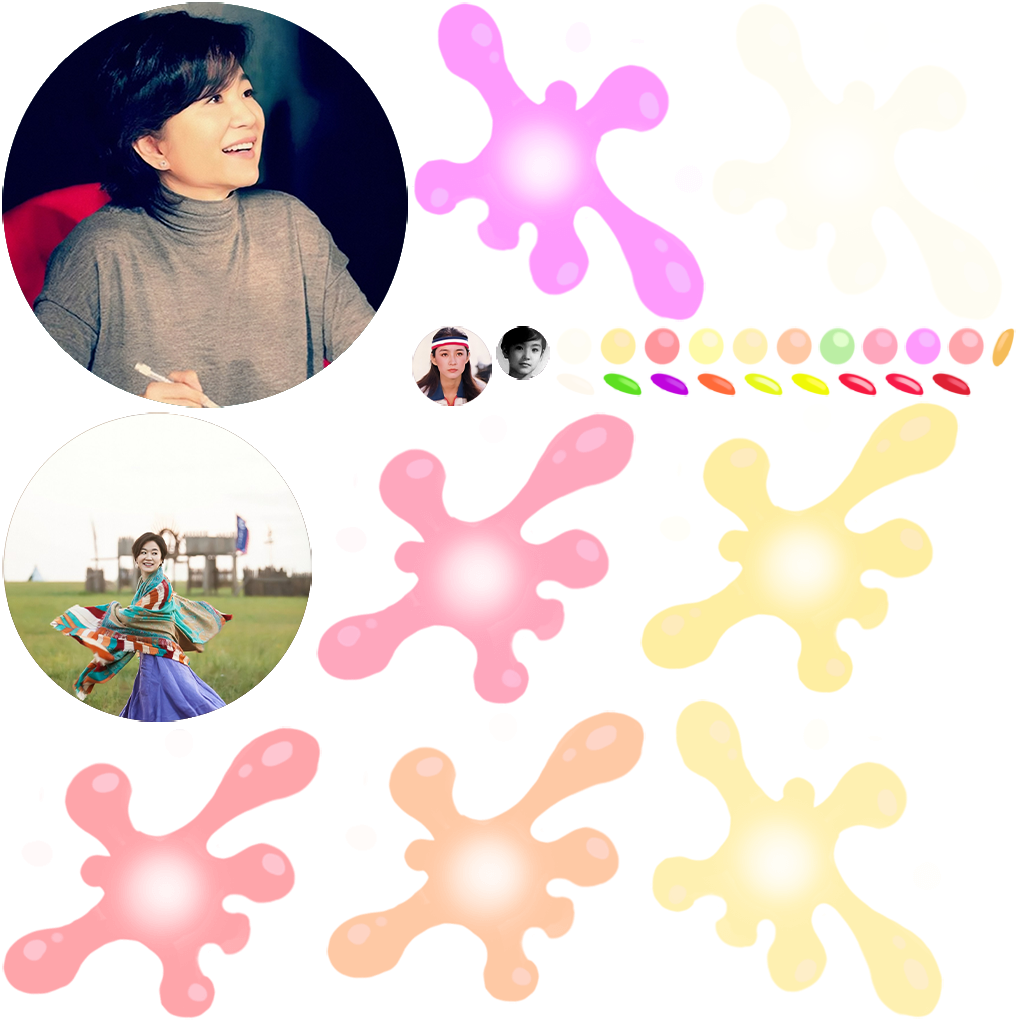
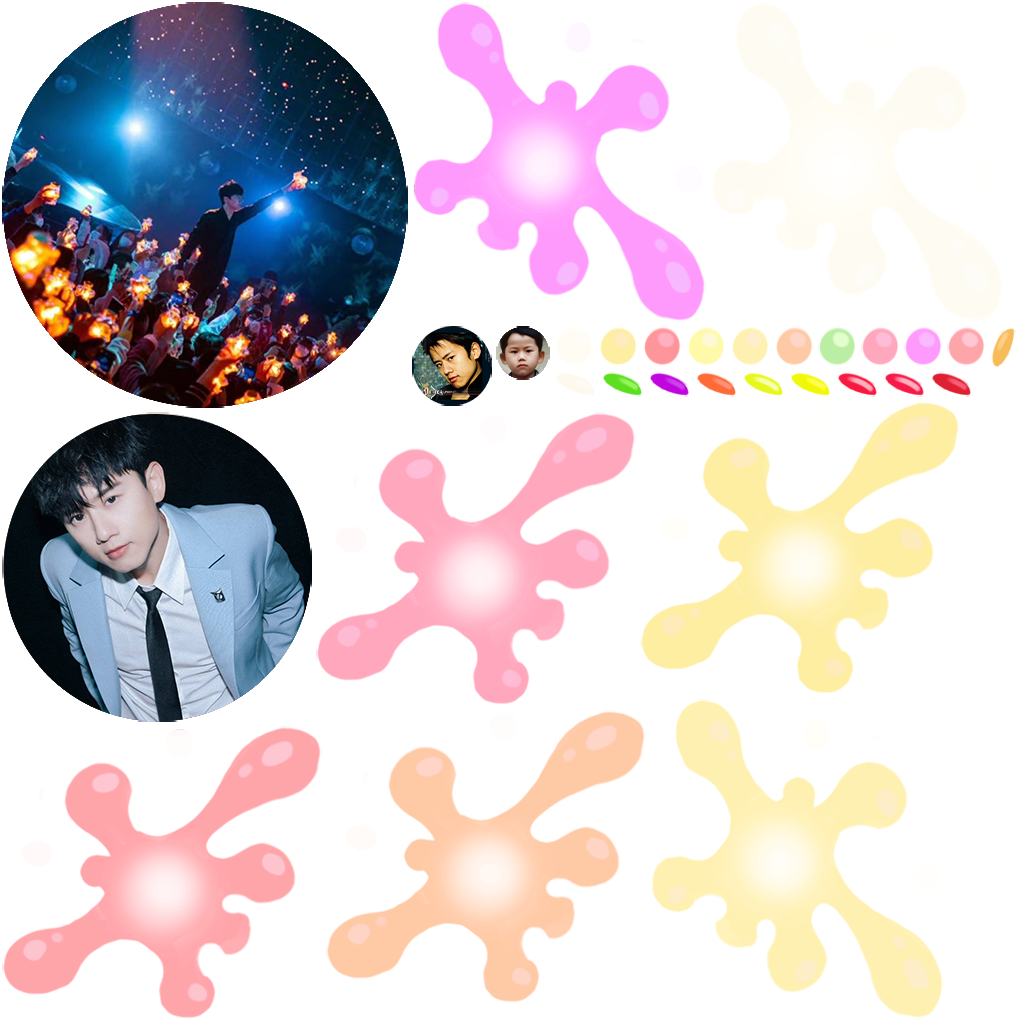
nitial commit

Changed region(s): [[0.0, 0.0, 0.4263, 0.728], [0.3959, 0.3033, 0.5481, 0.3943]]

diff --git a/index.html b/index.html
@@ -4,7 +4,7 @@
 <head>
     <meta charset="utf-8">
 
-    <title>合成林青霞</title>
+    <title>合成大北斗</title>
 
     <!--http://www.html5rocks.com/en/mobile/mobifying/-->
     <meta name="viewport" content="width=device-width,user-scalable=no,initial-scale=1, minimum-scale=1,maximum-scale=1" />
@@ -109,7 +109,7 @@
             //        console.log("window.navigator.language",window.navigator.language);
 
             if (window.navigator.language == "zh-CN" || window.navigator.language == "zh-cn") {
-                document.title = "合成林青霞";
+                document.title = "合成大北斗";
             } 
 
 
